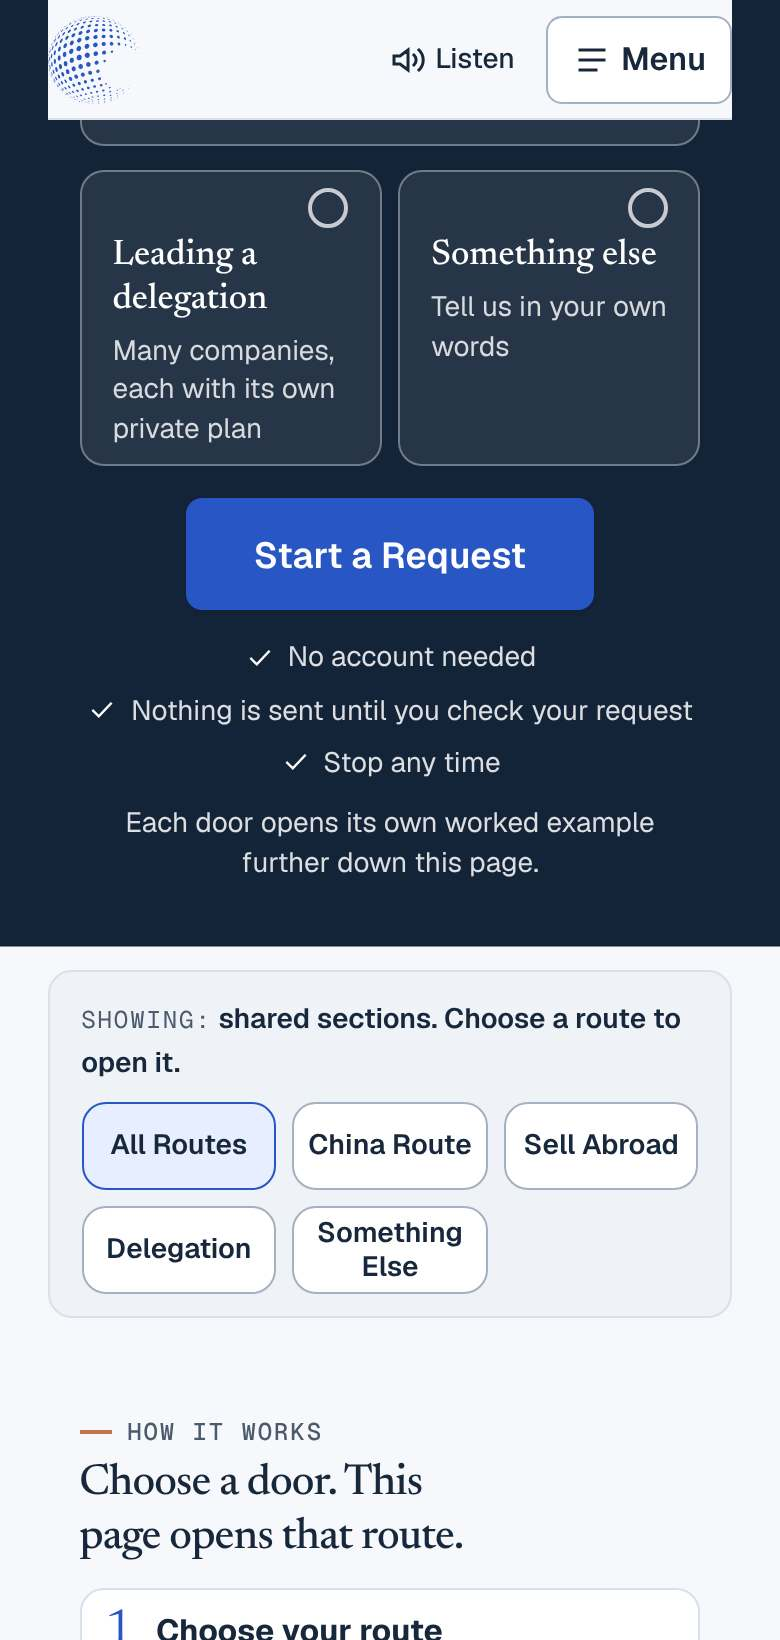
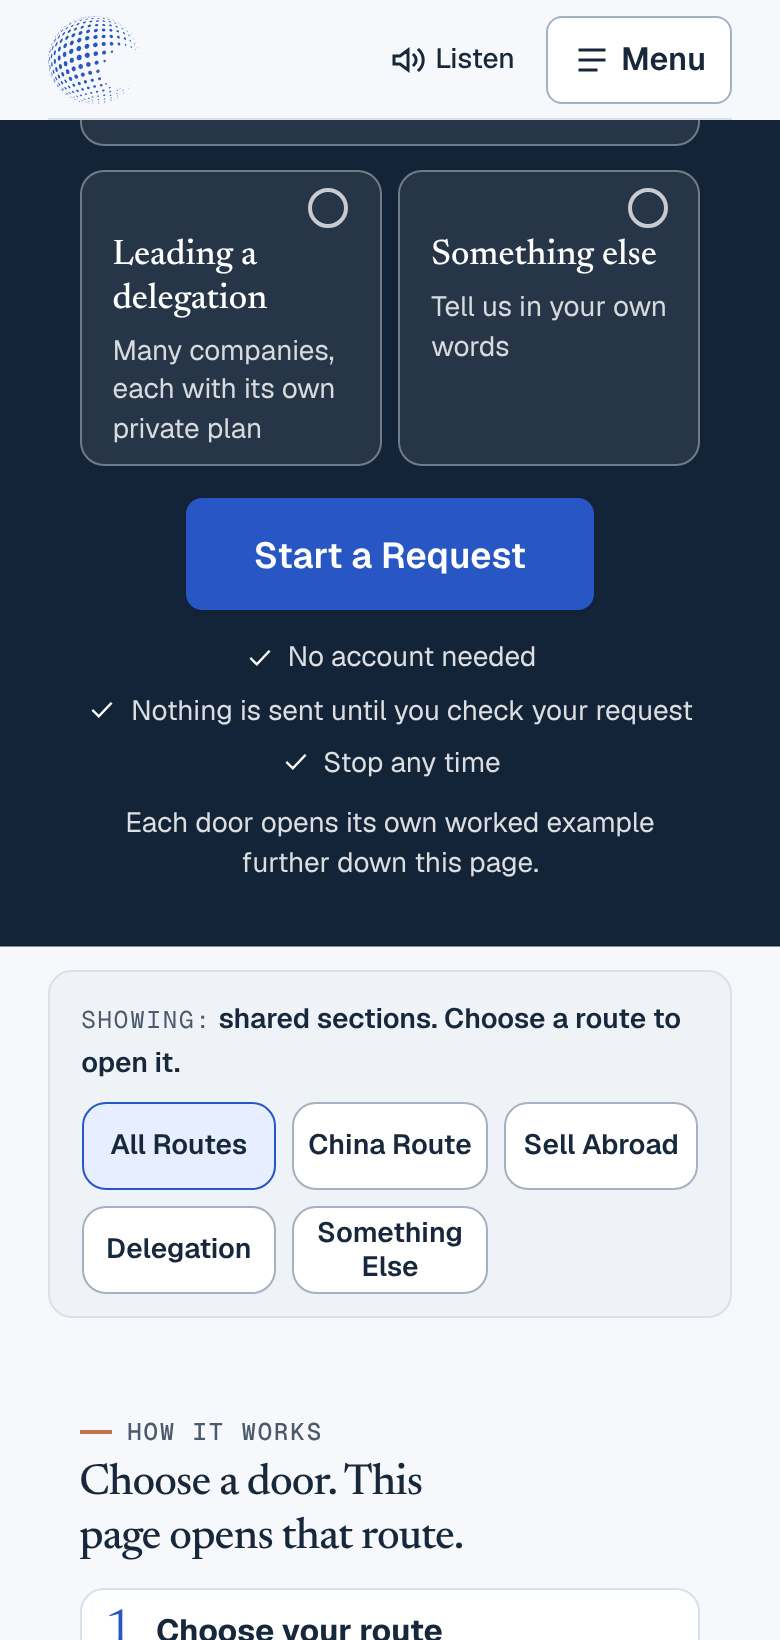
fix(b1): full-width solid header; forward the trimmed sign-up name; review round
Guardian decision and reviewer findings on PR 603:
- site-header.css: the solid fill reaches both screen edges (two copies of
  the bar's own paper fill, tokens only), so nothing scrolls past beside it.
- route.ts: sign-up forwards the trimmed name (S1); provider calls built by
  the proxy carry no query string (N1).
- globals.css B1 block: the repeated :not() is gone (N6).
- top-bar-language-sheet.spec.ts: the sticky bar check now names the solid
  fill and asserts no backdrop filter (N5).
- ui-direction.md: the phone header row marks the translucent fill superseded.
- Runbook: provider versions stated correctly (N2), the name rule and the
  accepted per-process limit recorded. Header evidence retaken, 1024 added.

Claude-Session: https://claude.ai/code/session_0187kU9tkz5CVX6XUScKYMoT

Changed region(s): [[0.9231, 0.0, 1.0, 0.0933], [0.0, 0.0, 0.0615, 0.0933]]

diff --git a/tests/integration/auth-proxy-code-signin.test.ts b/tests/integration/auth-proxy-code-signin.test.ts
@@ -12,6 +12,7 @@ const origin = 'https://app.example.invalid';
 type Reply = { status: number; body: Record<string, unknown>; cookie?: string };
 type Call = { method: string; path: string; body: unknown; type?: string | null };
 let hold: Promise<void> | null = null;
+let urls: string[] = [];
 let calls: Call[] = [];
 let replies: Record<string, Reply | 'throw'> = {};
 
@@ -28,8 +29,10 @@ beforeEach(() => {
     CORRIDRA_CUSTOMER_CODE_SIGNIN: 'true',
   });
   hold = null;
+  urls = [];
   const answer = async (request: Request, context: { params: Promise<{ path: string[] }> }) => {
     const path = (await context.params).path.join('/');
+    urls.push(request.url);
     calls.push({
       method: request.method,
       path,
@@ -54,14 +57,14 @@ beforeEach(() => {
 
 async function call(
   path: string,
-  init: { method?: string; body?: string; origin?: string | null } = {},
+  init: { method?: string; body?: string; origin?: string | null; query?: string } = {},
 ) {
   const route = await import('../../apps/web/app/api/auth/[...all]/route');
   const method = init.method ?? 'POST';
   const headers = new Headers({ 'Content-Type': 'application/json' });
   const from = init.origin === undefined ? origin : init.origin;
   if (from) headers.set('Origin', from);
-  const request = new Request(`${origin}/api/auth/${path}`, {
+  const request = new Request(`${origin}/api/auth/${path}${init.query ?? ''}`, {
     method,
     headers,
     ...(method === 'GET' ? {} : { body: init.body ?? '{}' }),
@@ -99,6 +102,7 @@ describe('the customer auth proxy and sign-in with a code (D-015)', () => {
       cookie: 'session=abc; Path=/; HttpOnly',
     };
     const response = await call('sign-in/email-otp', {
+      query: '?callbackURL=https%3A%2F%2Fevil.example&x=1',
       body: JSON.stringify({
         email: 'Person@Example.invalid',
         otp: '123456',
@@ -123,6 +127,11 @@ describe('the customer auth proxy and sign-in with a code (D-015)', () => {
         body: { email: 'Person@Example.invalid', otp: '123456' },
         type: 'application/json',
       },
+    ]);
+    // Neither provider call carries the browser's query string.
+    expect(urls).toEqual([
+      `${origin}/api/auth/email-otp/check-verification-otp`,
+      `${origin}/api/auth/sign-in/email-otp`,
     ]);
   });
 
@@ -242,6 +251,23 @@ describe('the sign-up name rule at the proxy (D-028)', () => {
       expect(await response.json()).toEqual({ error: 'Name is not valid', code: 'INVALID_NAME' });
     }
     expect(calls).toEqual([]);
+  });
+  it('forwards the trimmed name, never the spaces or line ends around it, and no query string', async () => {
+    for (const [typed, kept] of [
+      ['\tAlice\n', 'Alice'],
+      ['A' + ' '.repeat(150), 'A'],
+      ['  ' + 'n'.repeat(100) + '  ', 'n'.repeat(100)],
+    ] as const) {
+      calls = [];
+      expect((await signUp(typed)).status, JSON.stringify(typed)).toBe(200);
+      expect(calls[0]!.body).toEqual({
+        name: kept,
+        email: 'person@example.invalid',
+        password: 'x'.repeat(14),
+      });
+    }
+    for (const name of ['Ali\u0007ce', 'Ali\u2028ce', '\u0000', ' \n\t '])
+      expect((await signUp(name)).status, JSON.stringify(name)).toBe(400);
   });
   it('forwards a name of 1 and of 100 characters unchanged', async () => {
     for (const name of ['A', 'n'.repeat(100), '\u{1F642}'.repeat(100)]) {

diff --git a/apps/web/app/api/auth/[...all]/route.ts b/apps/web/app/api/auth/[...all]/route.ts
@@ -38,9 +38,15 @@ function parsed(body: Buffer): Record<string, unknown> | null {
 }
 const text = (value: unknown, max: number) =>
   typeof value === 'string' && value.length >= 1 && value.length <= max ? value : null;
-function toProvider(request: Request, path: string, body: Record<string, unknown>) {
+function toProvider(
+  request: Request,
+  path: string,
+  body: Record<string, unknown>,
+  from = codeSignIn,
+) {
   const url = new URL(request.url);
-  url.pathname = url.pathname.slice(0, url.pathname.length - codeSignIn.length) + path;
+  url.pathname = url.pathname.slice(0, url.pathname.length - from.length) + path;
+  url.search = '';
   const forwardHeaders = new Headers(request.headers);
   forwardHeaders.delete('content-length');
   forwardHeaders.set('content-type', 'application/json');
@@ -138,14 +144,16 @@ async function handle(request: Request, context: { params: Promise<{ all: string
         body,
       });
       if (path === 'sign-up/email') {
-        // D-028: the same name rule as the account name route (1 to 100 characters, no control characters).
-        const name = parsed(body)?.name;
-        const trimmed = typeof name === 'string' ? name.trim() : '';
-        if (!trimmed || characters(trimmed) > 100 || personalTextRefused.test(trimmed))
+        // D-028: the same name rule as the account name route (1 to 100 characters, no control characters),
+        // and the trimmed name is what the provider receives, as that route stores it.
+        const input = parsed(body);
+        const trimmed = typeof input?.name === 'string' ? input.name.trim() : '';
+        if (!input || !trimmed || characters(trimmed) > 100 || personalTextRefused.test(trimmed))
           return Response.json(
             { error: 'Name is not valid', code: 'INVALID_NAME' },
             { status: 400, headers },
           );
+        forwarded = toProvider(request, path, { ...input, name: trimmed }, path);
       }
       if (path === codeSignIn) {
         const input = parsed(body);

diff --git a/tests/ux/b1-solid-header.spec.ts b/tests/ux/b1-solid-header.spec.ts
@@ -27,4 +27,31 @@ for (const width of [1280, 390])
     expect(before.position).toBe('sticky');
     await page.evaluate(() => window.scrollTo(0, 900));
     await expect.poll(async () => (await header.boundingBox())?.y).toBe(0);
+    // The fill reaches both screen edges: the bar sits inside the page's side padding, and one copy of its own
+    // fill each way (same colour, no blur, no vertical offset) is wide enough to cover the strip beside it.
+    const box = (await header.boundingBox())!;
+    const edges = await header.evaluate((node) => {
+      const style = getComputedStyle(node);
+      const shadows = style.boxShadow.split(/,(?![^(]*\))/).map((part) => {
+        const colour = /rgba?\([^)]*\)/.exec(part)?.[0] ?? '';
+        const [x, y, blur, spread] = part.replace(colour, '').trim().split(/\s+/).map(parseFloat);
+        return { colour, x, y, blur, spread };
+      });
+      return { fill: style.backgroundColor, shadows };
+    });
+    expect(edges.shadows).toHaveLength(2);
+    for (const shadow of edges.shadows) {
+      expect(shadow.colour).toBe(edges.fill);
+      expect([shadow.y, shadow.blur, shadow.spread]).toEqual([0, 0, 0]);
+    }
+    const reach = edges.shadows.map((shadow) => shadow.x).sort((one, two) => one - two);
+    expect(reach[0]).toBeLessThanOrEqual(-box.x);
+    expect(reach[1]).toBeGreaterThanOrEqual(width - (box.x + box.width));
+    // Both side strips are painted alike, edge to edge of the bar's height.
+    const strip = (x: number) =>
+      page.screenshot({ clip: { x, y: 8, width: 3, height: Math.floor(box.height) - 16 } });
+    if (box.x >= 4) expect((await strip(0)).equals(await strip(width - 3))).toBe(true);
+    expect(await page.evaluate(() => document.documentElement.scrollWidth)).toBeLessThanOrEqual(
+      width,
+    );
   });

diff --git a/tests/browser/top-bar-language-sheet.spec.ts b/tests/browser/top-bar-language-sheet.spec.ts
@@ -151,10 +151,11 @@ test('the phone top bar shows the orb, Listen, the language code and Menu, each 
   expect(await small(page)).toEqual([]);
   expect(Math.round((await bar.boundingBox())!.height)).toBe(60);
   expect(await sideways(page)).toBeLessThanOrEqual(0);
-  // Sticky with a light translucent fill: still at the top after a long scroll.
+  // Sticky with a solid fill (owner, 23 Nov 2026; it was a light translucent fill): still at the top after a long scroll.
   await page.evaluate(() => window.scrollTo(0, 1200));
   expect(Math.round((await bar.boundingBox())!.y)).toBe(0);
   expect(await bar.evaluate((el) => getComputedStyle(el).position)).toBe('sticky');
+  expect(await bar.evaluate((el) => getComputedStyle(el).backdropFilter)).toBe('none');
 });
 
 test('under 360 px Listen and the language move into the drawer; from 360 px they sit in the bar', async ({

diff --git a/apps/web/components/site-header.css b/apps/web/components/site-header.css
@@ -20,6 +20,11 @@
   top: 0;
   z-index: 40;
   background: var(--paper);
+  /* The bar sits inside the page's side padding. Two copies of its own fill, one each way, carry the solid
+     paper to both screen edges at the bar's own height, so nothing scrolls past beside it. */
+  box-shadow:
+    -50vw 0 0 0 var(--paper),
+    50vw 0 0 0 var(--paper);
 }
 @media (max-width: 700px) {
   .site-header.public-header {

diff --git a/apps/web/app/globals.css b/apps/web/app/globals.css
@@ -9009,8 +9009,9 @@ main
     [role='tab']
   )
   + :is(a, button):is(.text-link, .primary-link, .secondary-link, .button, .button-secondary):not(
-    .ux-back
-  ):not([role='tab']):not(.ux-back, [role='tab']) {
+    .ux-back,
+    [role='tab']
+  ) {
   margin-inline: 0;
 }
 /* end B1 */

diff --git a/docs/runbooks/neon-auth-accounts.md b/docs/runbooks/neon-auth-accounts.md
@@ -87,14 +87,16 @@ Status on 23 October 2026: **not tested.** The cloud container that built this c
 
 Status on 23 November 2026 (unit B1): **answered from the source and the provider settings, not from a live sign-in.**
 
-- Read, not run: in the installed provider code (`better-auth` 1.7.18, `dist/plugins/email-otp/routes.mjs`) a sign-in code is sent to an address with no account, and `POST /sign-in/email-otp` (lines 371 to 412) then **creates an account** for it with the email marked verified and an empty name, unless the provider option `disableSignUp` is set. The Neon Auth settings of `corridra-v3-auth-synthetic` (read through the Neon API on 23 November 2026) show no such option for email codes; only magic links have a "disable sign up" setting. Treat the provider as creating accounts.
+- Versions: the customer SDK `@neondatabase/auth` 0.5.0-beta declares `better-auth` 1.6.23, the lockfile override resolves 1.7.10 for it, and 1.7.18 is the staff package only. **The version the hosted Neon Auth service runs is unknown**, which is why the application's answer must not depend on which version answers.
+- Read, not run: in the installed provider code (read in the 1.7.18 files, `dist/plugins/email-otp/routes.mjs`; 1.7.10 has the same handlers) a sign-in code is sent to an address with no account, and `POST /sign-in/email-otp` (lines 371 to 412) then **creates an account** for it with the email marked verified and an empty name, unless the provider option `disableSignUp` is set. The Neon Auth settings of `corridra-v3-auth-synthetic` (read through the Neon API on 23 November 2026) show no such option for email codes; only magic links have a "disable sign up" setting. Treat the provider as creating accounts.
 - Not run: a live sign-in on the non-production branch. That branch is archived and its mail webhook points at `https://c.obsidianglobal.studio/api/auth-mail`, so a test would have sent mail through that host, and the builder had no mailbox. Steps 1 and 2 above are still owed as an observation.
 - What the application does now, whatever the provider does (design set by the security review of 23 November 2026):
   - The proxy `apps/web/app/api/auth/[...all]/route.ts` allows `sign-in/email-otp`, POST only, and answers 404 unless `CORRIDRA_CUSTOMER_CODE_SIGNIN` is exactly `true`.
+  - A sign-up name is trimmed and must be 1 to 100 characters with no control characters before the provider is asked; the trimmed name is what the provider receives.
   - Before it forwards a sign-in it asks the provider's own `email-otp/check-verification-otp`, from the server only (that path is not on the browser allowlist). The sign-in is forwarded only when the check passes, with the address and the code and nothing else. **So a code can sign in an existing account and can never create one** (step 4 above: existing accounts only).
-  - **One answer for every refusal.** A wrong code, an expired code, too many tries on a code and an address with no account all get the same status and body (400, `CODE_REFUSED`), and the form says "That code is wrong or has expired, or no account uses this address. Check it, ask for a new code, or create an account." A Create an Account link is always under the code form. Reason: the provider version the SDK pins (`better-auth` 1.6.23, as read by the security review; it is not installed in this repository's dependency tree, which has 1.7.10 and 1.7.18) answers "user not found" before it looks at the code, so a different answer would tell a stranger which addresses have accounts.
+  - **One answer for every refusal.** A wrong code, an expired code, too many tries on a code and an address with no account all get the same status and body (400, `CODE_REFUSED`), and the form says "That code is wrong or has expired, or no account uses this address. Check it, ask for a new code, or create an account." A Create an Account link is always under the code form. Reason: `better-auth` 1.6.23, the version the SDK declares, answers "user not found" before it looks at the code (read by the security review), newer versions answer it after a correct code, and the hosted version is unknown; a different answer for "no account" could tell a stranger which addresses have accounts.
   - A provider fault, a missing route or no answer is 503 and the form says sign-in by code is unavailable; it never calls a correct code wrong for a fault. A provider rate limit is 429. Neither depends on the address.
-  - One attempt per address runs at a time in a server process; a second one at the same moment gets 429 without reaching the provider, so parallel guesses cannot race the provider's try counter there. Limit: this is per process, not across server instances.
+  - One attempt per address runs at a time in a server process; a second one at the same moment gets 429 without reaching the provider, so parallel guesses cannot race the provider's try counter there. Limit: this is per process, not across server instances. Accepted by the Guardian on 23 November 2026: the provider's own rate limit and the million possible codes make parallel guessing across instances impractical.
 - Known limits: an address with no account can still receive a code email (the provider sends it; the form's words stay the same for every address). Each attempt costs two provider calls, and the SDK forwards no client address, so the provider's own rate limit likely counts every customer against this application's server address: watch for 429 answers after the switch is on. The provider's own address is public, so a caller who skips this application can still reach the provider's sign-in or sign-up directly; that was already true of password sign-up and only a provider setting can close it.
 - First live check after deployment (owner or Guardian, with a mailbox they read). Record each result, the date and the hosted provider version here:
   1. Existing account, correct code: the account page opens.

diff --git a/docs/agents/ui-direction.md b/docs/agents/ui-direction.md
@@ -120,7 +120,7 @@ Open slots, to be filled by the lane that owns them, never by a guess:
 | Request page steps as numbered dots joined by a line, and flow progress as numbered circles                                                                                          | Progress as words, "Step N of M: Name · Next: Name" (18 Nov 2026, UI/UX.v4 row "Progress as words")                                                                                                                                      |
 | Listen inside the "?" popover or the corner dock, and "Listen is never in the header" (public site rules, 20 Oct 2026); top bar locked part without the language code and Menu words | Listen, the language code and Menu in the top bar of every screen, icon plus word (18 Nov 2026, UI/UX.v4 row "Top bar")                                                                                                                  |
 | Foundation motion "120 to 220 ms ease-out for state changes only" as the whole motion rule                                                                                           | The UI/UX.v4 motion spec (18 Nov 2026, row "Motion"): under 300 ms, Done tick 420 ms, product ease, nothing self-starting                                                                                                                |
-| Phone header 72 px                                                                                                                                                                   | 60 px, sticky, light translucent fill (18 Nov 2026, UI/UX.v4 row "Top bar")                                                                                                                                                              |
+| Phone header 72 px                                                                                                                                                                   | 60 px, sticky, solid fill (owner, 23 Nov 2026; "light translucent fill" of 18 Nov 2026 superseded)                                                                                                                                       |
 | The public-page limit of 3.0 phone and 2.0 desktop screens (layout-budget.md, owner 6 Nov 2026) for /corridors and a route page                                                      | /corridors 4.75 phone and 3.1 desktop, a route page 3.3 phone, every section open (18 Nov 2026, Guardian G29 under owner choice 2a, PR 563, UI/UX.v4 row "Routes pages"). The 3.0 and 2.0 limit still applies to every other public page |
 | Routes page tabs and the /plan "Your Request" callout box                                                                                                                            | Every route section open, callout line folded into the Plan heading (18 Nov 2026, UI/UX.v4 rows "Routes pages" and "Plan page")                                                                                                          |
 
